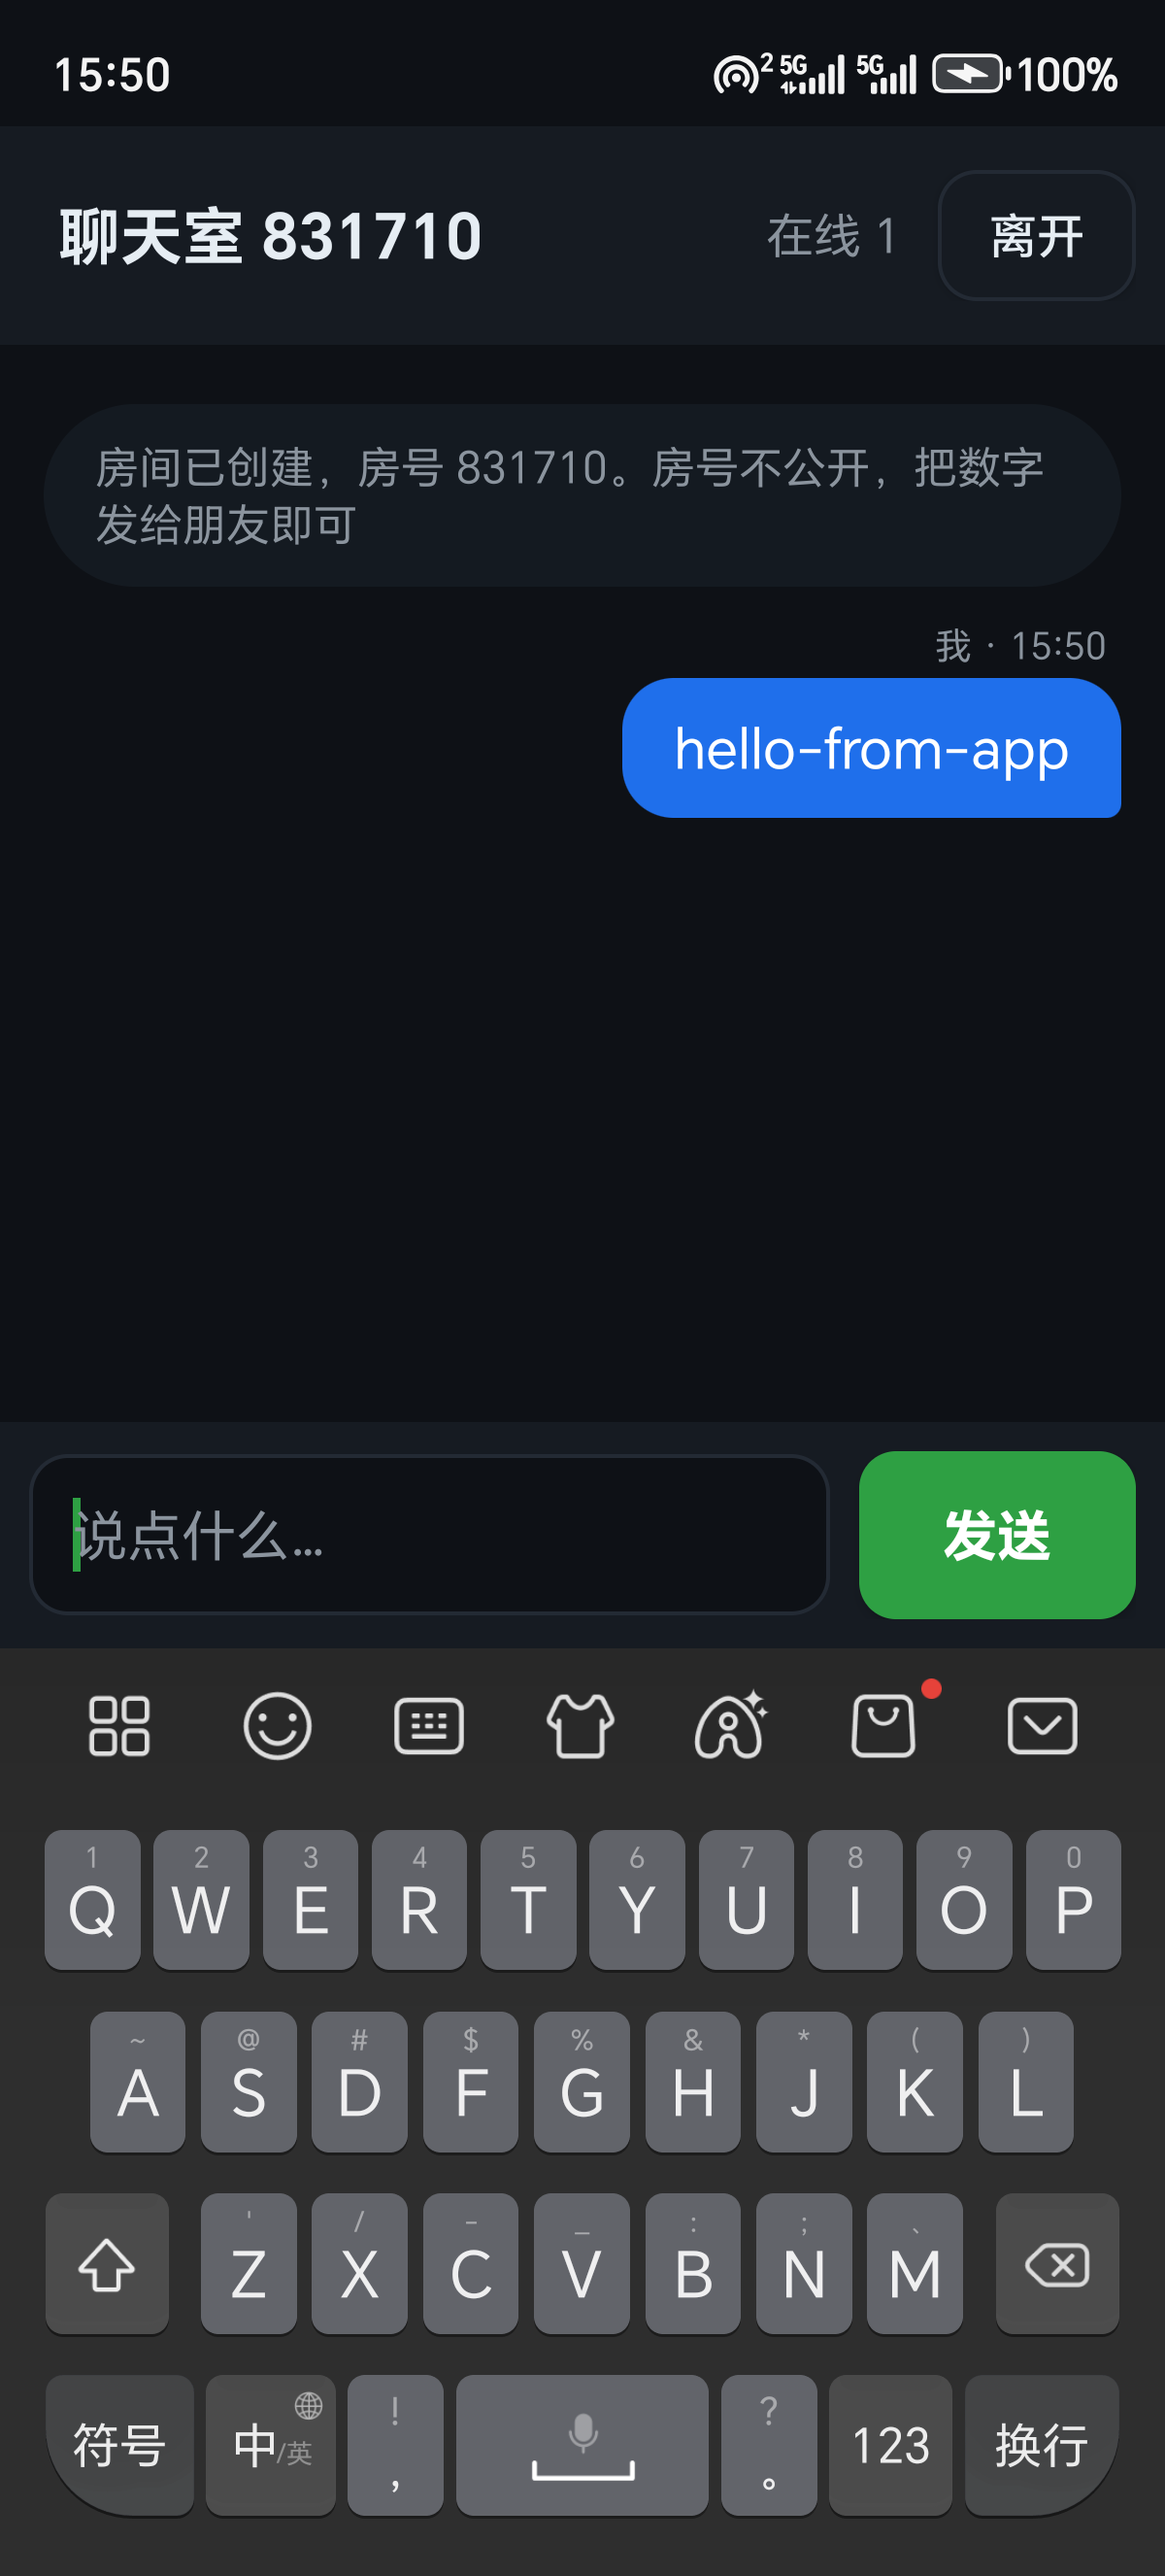
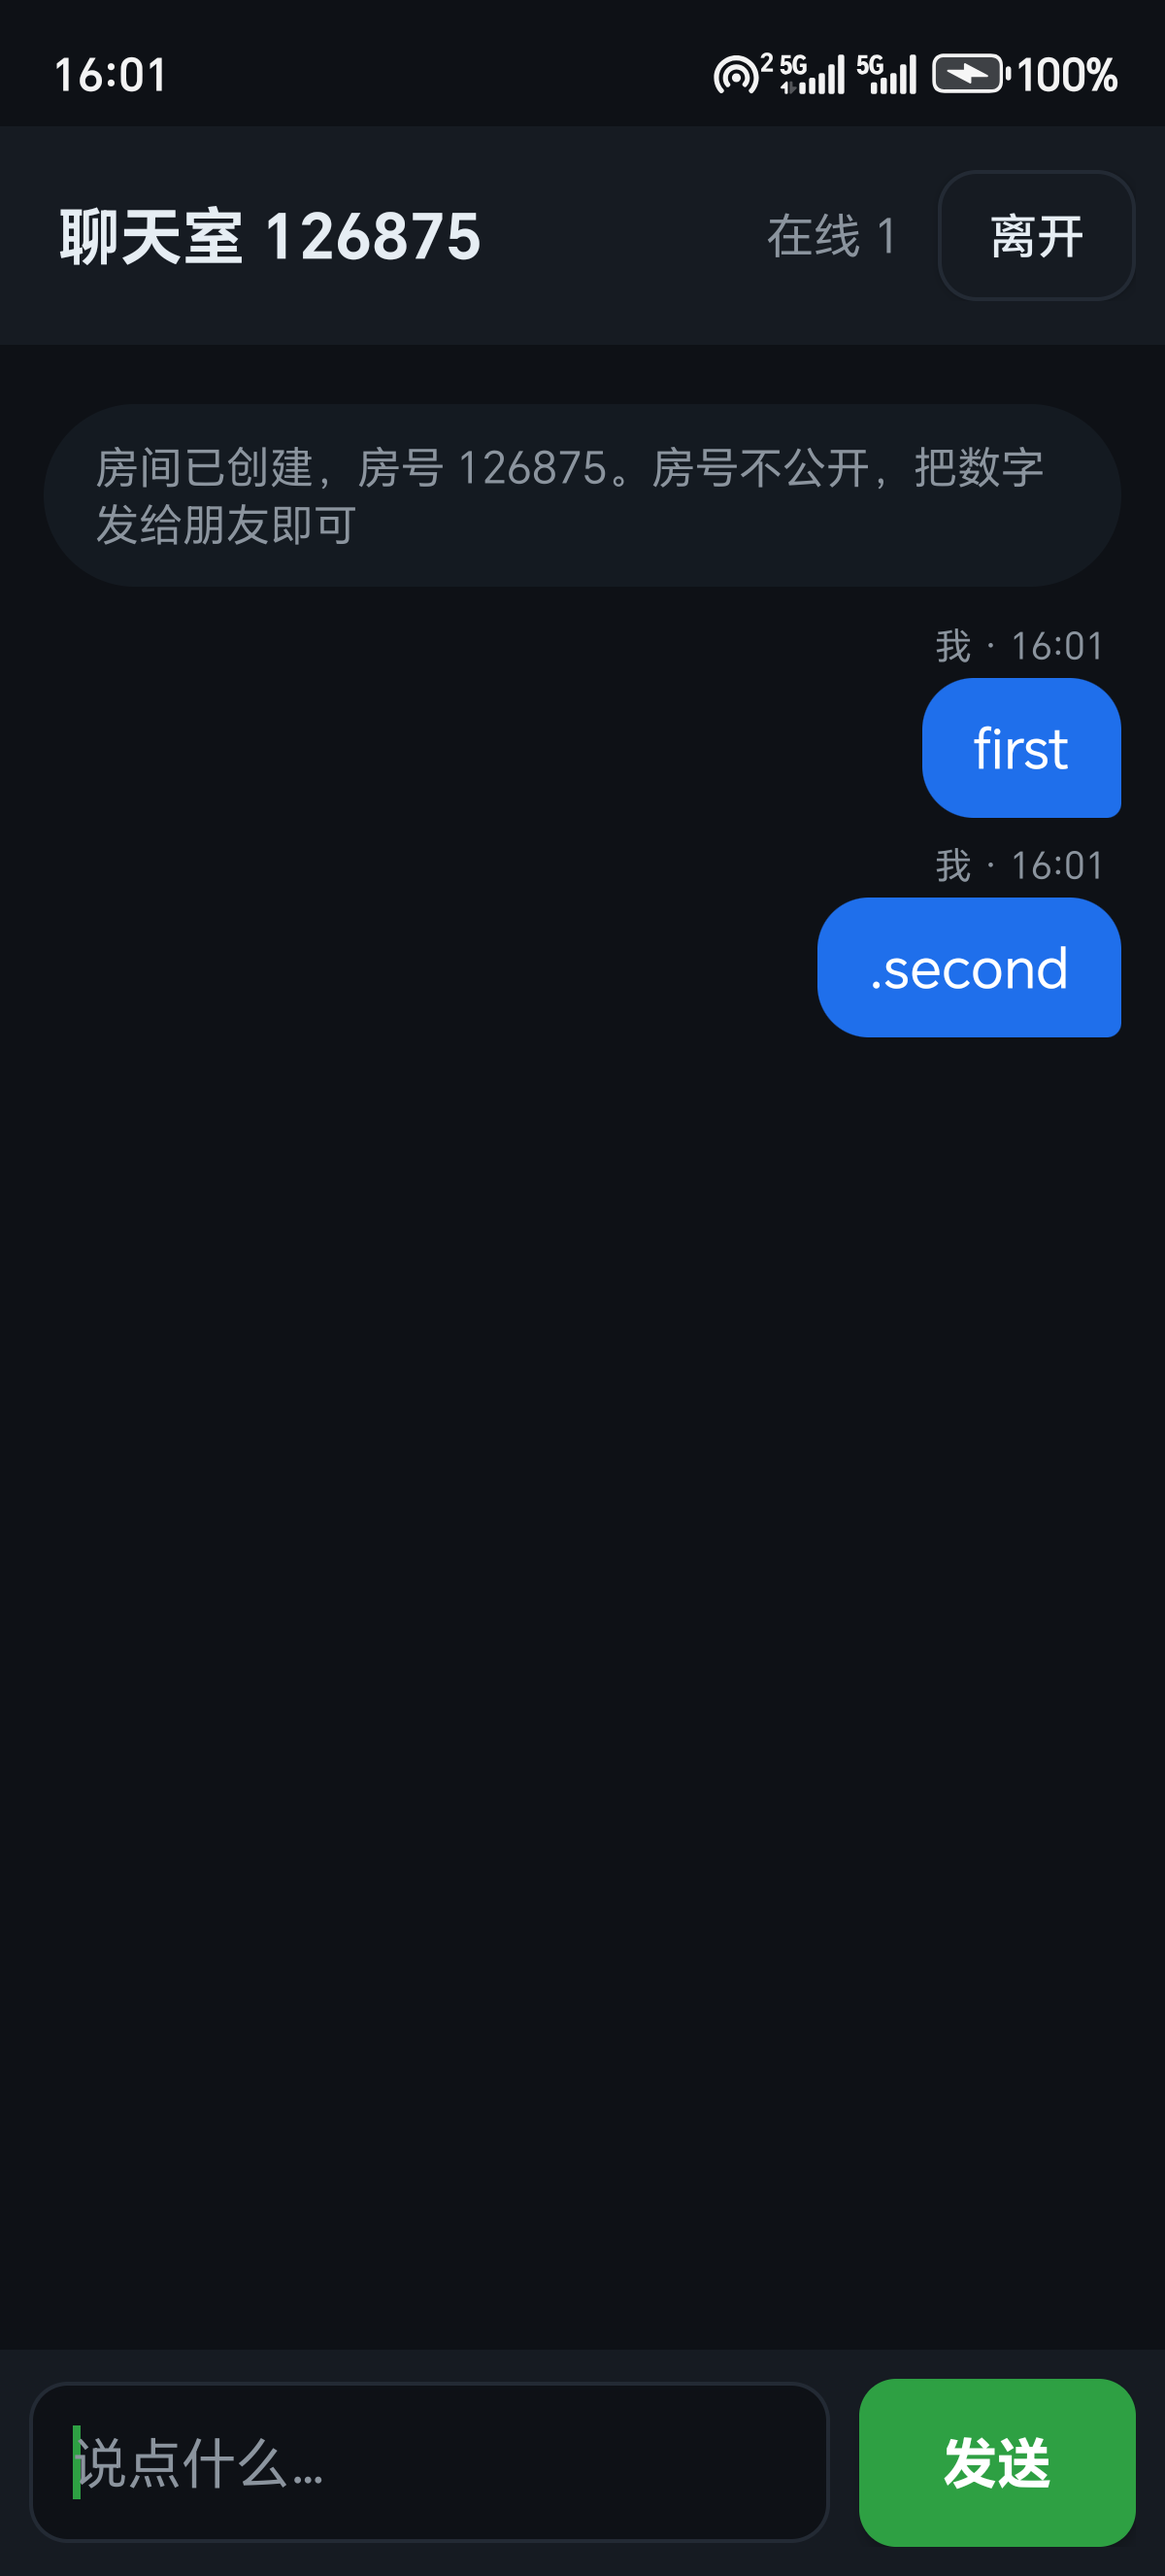
fix(android): 修复消息显示两遍（重复连接）
现象：同一台手机在房间里会显示成两个成员（如 aaa 与 aaa#2），
每条消息出现两次。

原因：重连逻辑没有互斥——建连过程中又发起一次 connect、旧连接没有
关闭、旧连接迟到的回调仍然被处理。两条连接都 join 了同一个房间，
服务端只存一条消息，但两份广播都推给了同一个界面。

修复：
- connect() 加 connecting 互斥，建新连接前先关闭旧连接
- 每个连接分配代号 connGen，回调里校验代号，旧连接的迟到消息直接丢弃
- 重连定时器统一管理，连上后取消，避免叠加

验证：新房间只有 1 个成员（无 #2），连发 2 条消息历史正好 2 行，
界面各显示 1 次。版本 1.1 (versionCode 2)。

diff --git a/android/app/src/main/java/online/ldsjypl/chat/MainActivity.java b/android/app/src/main/java/online/ldsjypl/chat/MainActivity.java
@@ -3,15 +3,13 @@ package online.ldsjypl.chat;
 import android.app.Activity;
 import android.content.SharedPreferences;
 import android.os.Bundle;
-import android.util.Log;
 import android.os.Handler;
 import android.os.Looper;
-import android.view.WindowInsets;
+import android.util.Log;
 import android.view.View;
 import android.view.inputmethod.EditorInfo;
 import android.widget.Button;
 import android.widget.EditText;
-import android.widget.LinearLayout;
 import android.widget.ListView;
 import android.widget.TextView;
 import android.widget.Toast;
@@ -33,14 +31,21 @@ public class MainActivity extends Activity {
     private final ChatAdapter adapter = new ChatAdapter();
     private final SimpleDateFormat hhmm = new SimpleDateFormat("HH:mm", Locale.getDefault());
 
+    /** 当前唯一的一条连接，任何时刻只允许存在一个。 */
     private volatile WsClient ws;
+    private volatile boolean connecting = false;
     private volatile boolean manualClose = false;
     private volatile boolean joined = false;
+    /** 连接代号：旧连接迟到的回调靠它丢弃。 */
+    private volatile long connGen = 0;
+
     private int retry = 0;
     private Runnable pendingAction;
     private Runnable lastJoinAction;
     private Runnable joinRetryTask;
     private Runnable pingTask;
+    private Runnable reconnectTask;
+    private Runnable watchdogTask;
 
     private String myName = "";
     private String roomId = "";
@@ -72,7 +77,7 @@ public class MainActivity extends Activity {
         list = findViewById(R.id.messageList);
         list.setAdapter(adapter);
 
-        // Android 15 强制边到边，手动给状态栏/输入法让位
+        // Android 15 强制边到边：手动给状态栏和输入法让位
         final View rootView = findViewById(R.id.root);
         rootView.setOnApplyWindowInsetsListener((v, insets) -> {
             int top = insets.getSystemWindowInsetTop();
@@ -116,8 +121,9 @@ public class MainActivity extends Activity {
     @Override
     protected void onDestroy() {
         manualClose = true;
-        stopPing();
+        stopTimers();
         WsClient c = ws;
+        ws = null;
         if (c != null) c.close();
         super.onDestroy();
     }
@@ -189,6 +195,7 @@ public class MainActivity extends Activity {
         }
         joined = false;
         roomId = "";
+        cancelJoinRetry();
         showLobby();
     }
 
@@ -220,14 +227,32 @@ public class MainActivity extends Activity {
         connect();
     }
 
+    /**
+     * 只允许一条连接：
+     * 1) 建连中直接返回，避免并发建第二条；
+     * 2) 建新连接前先关闭旧的；
+     * 3) 所有回调都用 client == ws 校验，旧连接迟到的消息直接丢弃
+     *    （之前消息显示两遍就是因为没有这层校验）。
+     */
     private void connect() {
         if (manualClose) return;
+        if (connecting) return;
+        connecting = true;
+        final long gen = ++connGen;
+
+        final WsClient old = ws;
+        if (old != null) {
+            ws = null;
+            old.close();
+        }
+
         final WsClient client = new WsClient(HOST, PORT, PATH, new WsClient.Listener() {
             @Override
             public void onOpen() {
-                Log.i("liaotian", "onOpen (thread)");
                 ui.post(() -> {
-                    Log.i("liaotian", "onOpen (ui) pending=" + (pendingAction != null));
+                    if (gen != connGen) return;
+                    connecting = false;
+                    cancelReconnect();
                     retry = 0;
                     setLobbyStatus("");
                     startPing();
@@ -243,12 +268,18 @@ public class MainActivity extends Activity {
 
             @Override
             public void onMessage(final String text) {
-                ui.post(() -> handleMessage(text));
+                ui.post(() -> {
+                    if (gen != connGen) return;  // 旧连接的迟到消息
+                    handleMessage(text);
+                });
             }
 
             @Override
             public void onClosed(String reason) {
                 ui.post(() -> {
+                    if (gen != connGen) return;
+                    connecting = false;
+                    ws = null;
                     stopPing();
                     joined = false;
                     if (manualClose) return;
@@ -263,53 +294,44 @@ public class MainActivity extends Activity {
         });
 
         ws = client;
-        // 看门狗：16 秒还没连上就放弃这次尝试，避免界面一直停在"正在连接"
-        ui.postDelayed(() -> {
-            if (ws == client && !client.isOpen()) {
+        watchdogTask = () -> {
+            if (client == ws && !client.isOpen()) {
+                connecting = false;
                 setLobbyStatus("连接超时，正在重试…");
                 client.close();
             }
-        }, 40000);
+        };
+        ui.postDelayed(watchdogTask, 40000);
+
         new Thread(() -> {
             try {
                 client.connect();
             } catch (Exception e) {
                 ui.post(() -> {
-                    Log.e("liaotian", "connect failed", e);
-                    setLobbyStatus("连接失败：" + (e.getMessage() == null ? e.getClass().getSimpleName() : e.getMessage()));
+                    if (gen != connGen) return;
+                    connecting = false;
+                    ws = null;
+                    Log.e("liaotian", "connect failed: " + e.getMessage());
+                    setLobbyStatus("连接失败：" + (e.getMessage() == null ? "未知错误" : e.getMessage()));
                     scheduleReconnect();
                 });
             }
         }, "ws-connect").start();
     }
 
-    private void armJoinRetry() {
-        cancelJoinRetry();
-        joinRetryTask = new Runnable() {
-            @Override
-            public void run() {
-                if (!joined) {
-                    Log.i("liaotian", "join not acked, retrying");
-                    if (lastJoinAction != null) lastJoinAction.run();
-                    ui.postDelayed(this, 6000);
-                }
-            }
-        };
-        ui.postDelayed(joinRetryTask, 6000);
-    }
-
-    private void cancelJoinRetry() {
-        if (joinRetryTask != null) {
-            ui.removeCallbacks(joinRetryTask);
-            joinRetryTask = null;
-        }
-    }
-
     private void scheduleReconnect() {
-        manualClose = false;
+        cancelReconnect();
         int delay = Math.min(1000 * (1 << Math.min(retry, 4)), 15000);
         retry++;
-        ui.postDelayed(this::connect, delay);
+        reconnectTask = this::connect;
+        ui.postDelayed(reconnectTask, delay);
+    }
+
+    private void cancelReconnect() {
+        if (reconnectTask != null) {
+            ui.removeCallbacks(reconnectTask);
+            reconnectTask = null;
+        }
     }
 
     private void sendJoin(String room, String name) {
@@ -329,9 +351,30 @@ public class MainActivity extends Activity {
             toast("还没连上，稍等一下");
             return false;
         }
-        Log.i("liaotian", "send " + o.toString());
         c.send(o.toString());
         return true;
+    }
+
+    private void armJoinRetry() {
+        cancelJoinRetry();
+        joinRetryTask = new Runnable() {
+            @Override
+            public void run() {
+                if (!joined && lastJoinAction != null) {
+                    Log.i("liaotian", "join not acked, retrying");
+                    lastJoinAction.run();
+                    ui.postDelayed(this, 6000);
+                }
+            }
+        };
+        ui.postDelayed(joinRetryTask, 6000);
+    }
+
+    private void cancelJoinRetry() {
+        if (joinRetryTask != null) {
+            ui.removeCallbacks(joinRetryTask);
+            joinRetryTask = null;
+        }
     }
 
     private void startPing() {
@@ -358,13 +401,22 @@ public class MainActivity extends Activity {
         }
     }
 
+    private void stopTimers() {
+        stopPing();
+        cancelJoinRetry();
+        cancelReconnect();
+        if (watchdogTask != null) {
+            ui.removeCallbacks(watchdogTask);
+            watchdogTask = null;
+        }
+    }
+
     // ------------------------------------------------------------ 消息处理
 
     private void handleMessage(String text) {
         try {
             JSONObject o = new JSONObject(text);
             String type = o.optString("type");
-            Log.i("liaotian", "recv " + type);
 
             if ("joined".equals(type)) {
                 roomId = o.optString("room");
